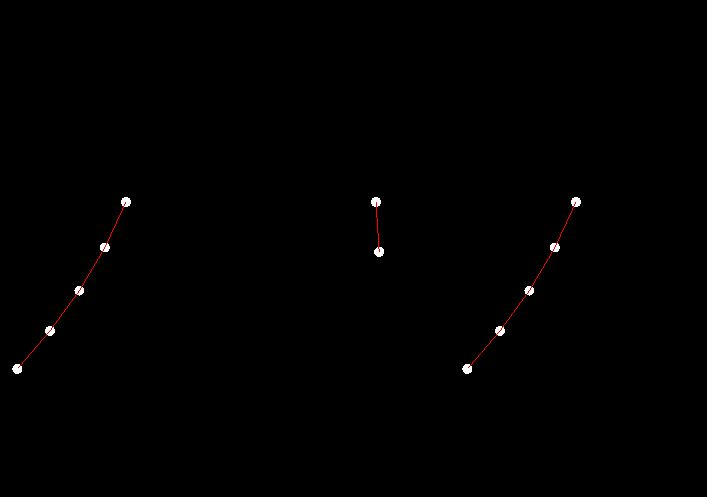
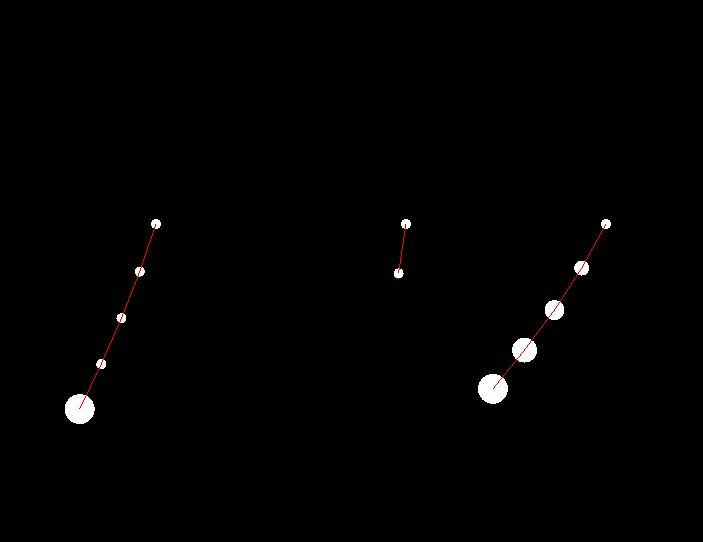
Add mass graphics

diff --git a/pbd.cpp b/pbd.cpp
@@ -2,7 +2,6 @@
 #include <vector>
 #include <cmath>
 
-// Vec2, Particle, DistanceConstraint, and PBDSolver definitions (unchanged)
 struct Vec2 {
     float x, y;
     Vec2(float x_ = 0.0f, float y_ = 0.0f) : x(x_), y(y_) {}
@@ -19,6 +18,9 @@ struct Particle {
     Vec2 vel;
     float inv_mass;
     bool fixed;
+    bool has_shadow;  // Added to track if particle has a shadow
+    size_t shadow_index;  // Index into shadow_particles vector
+    Particle() : has_shadow(false), shadow_index(0) {}  // Constructor to initialize new members
 };
 
 struct DistanceConstraint {
@@ -29,9 +31,10 @@ struct DistanceConstraint {
 class PBDSolver {
 public:
     std::vector<Particle> particles;
+    std::vector<Particle> shadow_particles;
     std::vector<DistanceConstraint> constraints;
-    Vec2 gravity = Vec2(0.0f, 9.81f);
-    float time_step = 1.0f / 60.0f;
+    Vec2 gravity = Vec2(0.0f, 9.81f/100.0f);
+    float time_step = 10.0f / 60.0f;
     int num_iterations = 5;
 
     void addParticle(float x, float y, float mass, bool fixed = false) {
@@ -41,7 +44,19 @@ public:
         p.vel = Vec2(0.0f, 0.0f);
         p.inv_mass = (mass > 0.0f) ? 1.0f / mass : 0.0f;
         p.fixed = fixed;
+        p.has_shadow = true;
+        p.shadow_index = shadow_particles.size();  // Index of corresponding shadow
         particles.push_back(p);
+
+        // Shadow particle
+        Particle shadow_p;
+        shadow_p.pos = p.pos;
+        shadow_p.prev_pos = shadow_p.pos;
+        shadow_p.vel = Vec2(0.0f, 0.0f);
+        shadow_p.inv_mass = (mass > 0.0f) ? 1.0f / mass : 0.0f;
+        shadow_p.fixed = fixed;
+        shadow_p.has_shadow = false;  // Shadow doesn't have its own shadow
+        shadow_particles.push_back(shadow_p);
     }
 
     void addDistanceConstraint(int p1, int p2) {
@@ -58,6 +73,9 @@ public:
                 p.vel = p.vel + gravity * (time_step * 50.0f);
                 p.prev_pos = p.pos;
                 p.pos = p.pos + p.vel * time_step;
+                if (p.has_shadow) {
+                    shadow_particles[p.shadow_index].pos = p.pos; 
+                }
             }
         }
         for (int iter = 0; iter < num_iterations; ++iter) {
@@ -86,59 +104,61 @@ public:
 };
 
 int main() {
-    // Create SFML window
     sf::RenderWindow window(sf::VideoMode(800, 600), "Simple PBD with SFML");
     window.setFramerateLimit(60);
 
-    // Vector of solvers
     std::vector<PBDSolver> solvers(3);
-
-    // Vector of center positions
     std::vector<Vec2> centers = {
-        Vec2(200.0f, 250.0f),             // Center for solvers[0]
-        Vec2(5 * 50.0f + 200.0f, 250.0f),  // Center for solvers[1]
-        Vec2((5+4) * 50.0f + 200.0f, 250.0f)  // Center for solvers[2]
+        Vec2(200.0f, 250.0f),
+        Vec2(5 * 50.0f + 200.0f, 250.0f),
+        Vec2((5+4) * 50.0f + 200.0f, 250.0f)
     };
+    std::vector<int> particle_counts = {5, 2, 5};
+    std::vector<std::vector<float>> Ws = {{1.0f, 1.0f, 1.0f,1.0f,3.0f},{1.0f,1.0f},{1.0f, 1.5f, 2.0f,2.5f,3.0f}};
 
-    // Vector of particle counts for each solver
-    std::vector<int> particle_counts = {5, 2,5}; // 5 particles for solvers[0], 4 for solvers[1]
-
-    // Setup solvers with loop counter
-    for (int s = 0; s < solvers.size(); ++s) {  // s is the solver index
+    for (int s = 0; s < solvers.size(); ++s) {
         for (int i = 0; i < particle_counts[s]; ++i) {
-            solvers[s].addParticle(centers[s].x + i * 50.0f, centers[s].y, 1.0f, i == 0);
+            solvers[s].addParticle(centers[s].x + i * 50.0f, centers[s].y, Ws[s][i], i == 0);
             if (i > 0) {
                 solvers[s].addDistanceConstraint(i - 1, i);
             }
         }
     }
 
-    // Main loop
     while (window.isOpen()) {
         sf::Event event;
         while (window.pollEvent(event)) {
             if (event.type == sf::Event::Closed) window.close();
         }
 
-        // Simulate all solvers
         for (auto& solver : solvers) {
             solver.simulate();
         }
 
-        // Render
         window.clear(sf::Color::Black);
 
-        // Draw particles
         sf::CircleShape particle_shape(5.0f);
+        sf::CircleShape particle_shape_shadow(5.0f);
         particle_shape.setFillColor(sf::Color::White);
-        for (const auto& solver : solvers) {
-            for (const auto& p : solver.particles) {
-                particle_shape.setPosition(p.pos.x - 5.0f, p.pos.y - 5.0f);
+        particle_shape_shadow.setFillColor(sf::Color::Green);
+
+
+
+    for (int s = 0; s < solvers.size(); ++s) {
+            // Draw shadow particles first
+            for (const auto& shadow : solvers[s].shadow_particles) {
+                 particle_shape.setRadius(5.0f);
+                particle_shape_shadow.setPosition(shadow.pos.x - 5.0f, shadow.pos.y - 5.0f);
+                window.draw(particle_shape_shadow);
+            }
+            // Draw regular particles
+                for (int i = 0; i < particle_counts[s]; ++i) {
+                 particle_shape.setRadius(Ws[s][i]*5.0f);
+                particle_shape.setPosition(solvers[s].particles[i].pos.x - (Ws[s][i]*5.0f), solvers[s].particles[i].pos.y - (Ws[s][i]*5.0f));
                 window.draw(particle_shape);
             }
-        }
+    }
 
-        // Draw constraints
         for (const auto& solver : solvers) {
             for (const auto& c : solver.constraints) {
                 Vec2 p1_pos = solver.particles[c.p1].pos;
